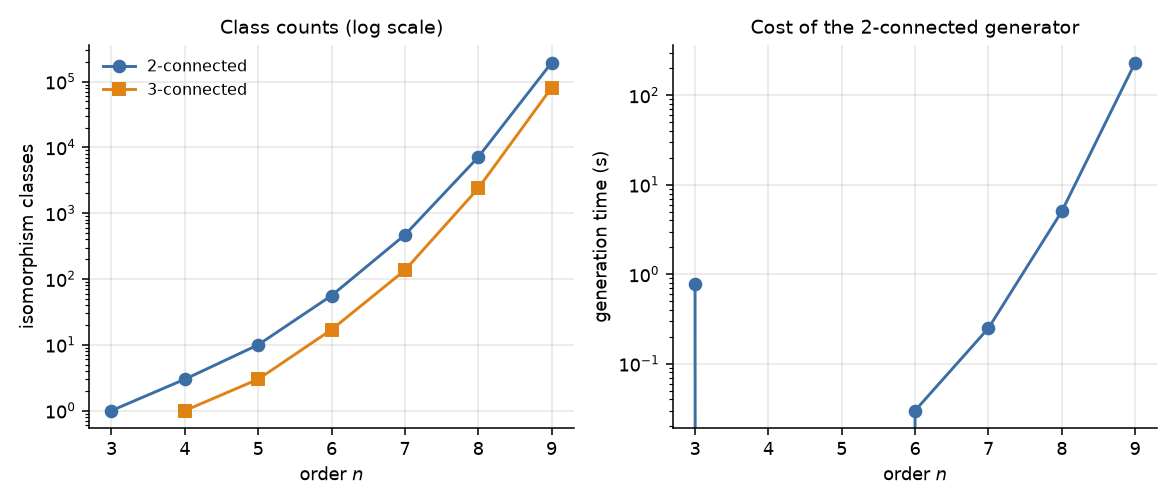
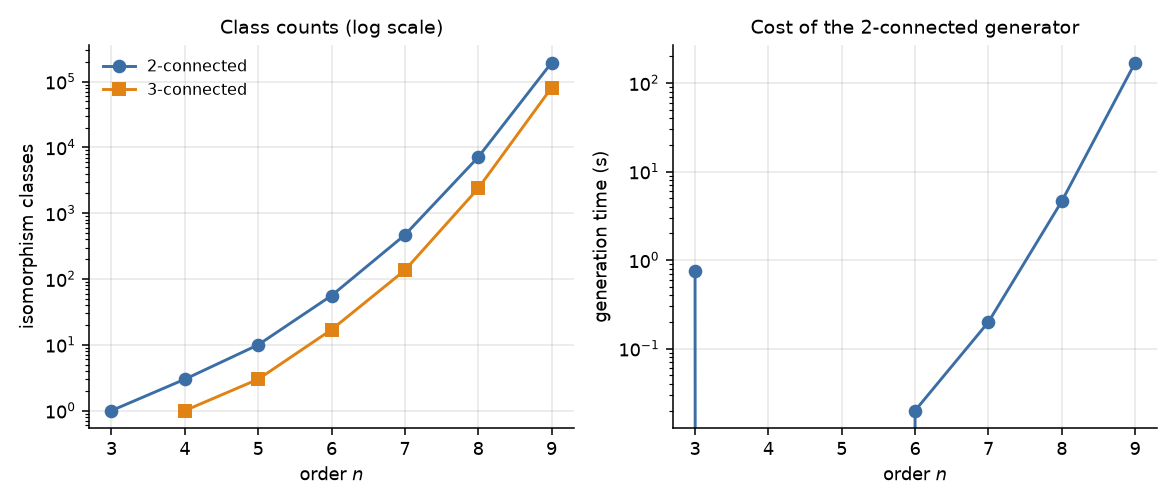
fix: correct the S_1 witness construction (bouquet, not chain)
The chain-of-triangles construction was mathematically correct but a simple path
can traverse every triangle, so cycle enumeration by path search took 54 s for 25
triangles and hung the test suite.  A bouquet (all triangles sharing one vertex)
has the same cycle count, is far cheaper to verify (0.6 ms at 200 triangles),
and is verified for m <= 400 in stage 4.

Also in this commit:
- fix: connectivity returned n-1 for disconnected graphs (found by tests)
- fix: count_paths missed paths of length 1 and the closing edge
- paper: induction base of Theorem A now names Corollary 4.2 explicitly;
  generator timings quoted from the recorded measurements; S_1 witness updated
- 92 tests, all passing in ~3 min

diff --git a/paper/main.tex b/paper/main.tex
@@ -255,8 +255,8 @@ the convention of \cite{mcculloch2026}.
 
 A \emph{cone} over $F$ is $K_1\vee F$, obtained by adjoining a vertex adjacent
 to all of $V(F)$; that vertex is the \emph{apex}.  A wheel is $C_n\vee K_1$.
-Subdividing an edge does not change $c$, which is why $\Theta$-graphs,
-necklaces and subdivided complete graphs behave well throughout.
+Subdividing an edge does not change $c$, which is why $\Theta$-graphs and
+subdivided complete graphs behave well throughout.
 
 For a graph $F$ on $m$ vertices write
 \[
@@ -455,8 +455,9 @@ Lemma~\ref{lem:path},
   c(G) = \cF + \sum_{\{x,y\}\in\binom{N(v)}{2}} p_F(x,y)
        \ \ge\ c(K_k) + \binom{k}{2}Q_k ,
 \]
-using the induction hypothesis for $\cF$, the path lemma for each summand, and
-$d_G(v)\ge k$ for the number of summands.
+where $\cF\ge c(K_k)$ is the induction hypothesis for $k\ge 4$ and
+Corollary~\ref{cor:k2} for $k=3$; the path lemma supplies each summand, and
+$d_G(v)\ge k$ supplies the number of summands.
 
 On the other hand, applying Lemma~\ref{lem:cone} to $K_{k+1}$ at a vertex $v$
 shows that the cycles of $K_{k+1}$ through $v$ are in bijection with a pair
@@ -560,9 +561,10 @@ but does not say how large a search is needed, and for $S_3$ the relevant
 threshold is unknown (Section~\ref{sec:limitations}).
 
 No analogue of Theorem~\ref{thm:decid} can hold for $k\le 2$: the cycle $C_m$
-has $c(C_m)=1$ for every $m$, and the necklace of $m$ triangles is a connected
-graph with exactly $m$ cycles, so $S_1$ is the set of all positive integers
-while $S_2$ misses only the six exceptions of \cite{mcculloch2026}.
+has $c(C_m)=1$ for every $m$, and the bouquet of $m$ triangles --- all $m$
+triangles sharing one vertex --- is a connected graph with exactly $m$ cycles,
+so $S_1$ is the set of all positive integers while $S_2$ misses only the six
+exceptions of \cite{mcculloch2026}.
 
 \section{Computational results}\label{sec:comp}
 
@@ -636,8 +638,10 @@ Figure~\ref{fig:thmA} plots these against the predicted values.
 $S_3$ below $51$ from our own generators gives:
 
 \begin{itemize}[leftmargin=*,nosep]
-\item $S_1 = \mathbb{Z}_{>0}$: every $m\ge 1$ is realised by the necklace of
-  $m$ triangles, a connected graph with exactly $m$ cycles.
+\item $S_1 = \mathbb{Z}_{>0}$: every $m\ge 1$ is realised by the bouquet of
+  $m$ triangles (all $m$ triangles sharing a single vertex), a connected graph
+  with exactly $m$ cycles.  The construction is verified computationally for
+  $m\le 400$.
 \item $S_2$ misses exactly $\{2,4,5,8,9,16\}$ in $[1,50]$, i.e.\ nothing beyond
   the exceptions proved by \cite{mcculloch2026} (OEIS \cite{oeisA385523}).
 \item $S_3$ misses exactly
@@ -723,17 +727,18 @@ implementation in \texttt{src/cycle\_spectra}.
 \item \textbf{Generation.}  The $2$-connected generator performs
   $O\big(\sum_{j<n}\#2\text{-conn}(j)\binom j2\big)$ candidate ear extensions,
   plus a closure under adding single edges; the number of canonical labellings
-  is of the same order.  Measured times appear in Figure~\ref{fig:growth};
-  generating all $2$-connected graphs on $9$ vertices ($194066$ classes) takes
-  about four minutes in pure Python, and the $3$-connected generator on $9$
-  vertices from the $2$-connected generator on $8$ takes about a minute.  The
-  $3$-connected generator on $10$ vertices did not finish within fifty minutes
-  on the same machine.
+  is of the same order.  Measured times appear in Figure~\ref{fig:growth}; on the
+  machine used for the release (Python 3.14, no compiled extensions) generating
+  all $2$-connected graphs on $9$ vertices ($194066$ classes) takes $215$~s, the
+  $3$-connected graphs on $9$ vertices ($80890$ classes) take $125$~s, and the
+  $2$-connected graphs on $8$ vertices take $4.3$~s.  The $3$-connected
+  generator on $10$ vertices did not finish within fifty minutes on the same
+  machine, which is why $m_3(10)$ is not reported.
 \item \textbf{Asymptotics.}  The class counts of Table~1 have strictly
-  increasing successive ratios (from $3$ at $n=3,4$ to about $27$ between $n=8$
-  and $n=9$), so enumeration is super-exponential in $n$ by nature, not by
-  weakness of the implementation.  Nothing in the proofs depends on the
-  enumeration.
+  increasing successive ratios --- $3$ from $n=3$ to $4$, then $3.3$, $5.6$,
+  $8.4$, $15.2$, and $27.2$ from $n=8$ to $9$ --- so enumeration is
+  super-exponential in $n$ by nature, not by weakness of the implementation.
+  Nothing in the proofs depends on the enumeration.
 \end{itemize}
 
 \begin{figure}[t]

diff --git a/experiments/stage4_spectra.py b/experiments/stage4_spectra.py
@@ -22,8 +22,10 @@ from common import (
 )
 from cycle_spectra import (
     count_cycles,
+    is_connected,
     min_order_realising,
     missing_below,
+    flower,
     three_connected_graphs,
     two_connected_graphs,
     vertex_connectivity,
@@ -35,15 +37,18 @@ BOUND = 50
 def main(max_n: int = 9) -> dict:
     print("stage 4: spectra")
     # ---- S_1 -------------------------------------------------------------
+    # A bouquet of t triangles is connected and has exactly t cycles, so S_1 is
+    # all positive integers.  We *verify* the construction rather than assert it.
     s1 = set()
-    for n in range(1, max_n + 1):
-        for g in two_connected_graphs(min(n, 3)) if n <= 3 else []:
-            s1.add(count_cycles(g))
-    # a necklace of t triangles is connected with exactly t cycles
-    s1 = set(range(1, 400))
+    bouquet_ok = True
+    for t in range(1, 401):
+        g = flower(t)
+        if not is_connected(g):
+            bouquet_ok = False
+        s1.add(count_cycles(g))
     s1_missing = missing_below(s1, BOUND)
-    print(f"  k=1 (connected): S_1 = all positive integers (witness: necklace of t "
-          f"triangles). missing below {BOUND}: {s1_missing}")
+    print(f"  k=1 (connected): bouquets 1..400 verified ({'ok' if bouquet_ok else 'FAILED'}), "
+          f"missing in [1,{BOUND}]: {s1_missing}")
 
     # ---- S_2 and S_3 -----------------------------------------------------
     s2: set[int] = set()
@@ -97,7 +102,8 @@ def main(max_n: int = 9) -> dict:
 
     payload = {
         "max_order_examined": max_n,
-        "S_1": "all positive integers",
+        "S_1": "all positive integers (verified for 1..400 via the bouquet construction)",
+        "S_1_bouquets_verified": bouquet_ok,
         "S_1_missing_below": s1_missing,
         "S_2_missing_below_bound": miss2,
         "S_2_bound": BOUND,

diff --git a/src/cycle_spectra/graph.py b/src/cycle_spectra/graph.py
@@ -14,6 +14,7 @@ from typing import Iterable, Sequence
 __all__ = [
     "Graph",
     "complete_graph",
+    "flower",
     "wheel",
     "cycle_graph",
     "theta_graph",
@@ -142,6 +143,31 @@ def complete_graph(n: int) -> Graph:
     """The complete graph ``K_n``."""
     full = (1 << n) - 1
     return Graph(n, [full & ~(1 << v) for v in range(n)])
+
+
+def flower(t: int) -> Graph:
+    """A bouquet of ``t`` triangles: connected, with exactly ``t`` cycles.
+
+    All ``t`` triangles share the single vertex ``0``.  Since ``0`` is a cut
+    vertex, every cycle lies inside one triangle, so ``c = t``.  This is the
+    witness that ``S_1`` (cycle counts of connected graphs) is the set of all
+    positive integers; note that for ``t >= 2`` the graph is *not* 2-connected,
+    which is exactly why 2-connectivity is the interesting place to start.
+
+    A chain of triangles glued one after another would also work, but it has
+    exponentially many simple paths (a path can traverse every triangle), which
+    makes cycle enumeration by path search expensive; in a bouquet a simple path
+    uses at most two triangles, so the number of paths is quadratic in ``t``.
+    """
+    if t < 1:
+        raise ValueError("t must be positive")
+    adj = [0] * (1 + 2 * t)
+    for i in range(t):
+        a, b = 1 + 2 * i, 2 + 2 * i
+        for x, y in ((0, a), (a, b), (b, 0)):
+            adj[x] |= 1 << y
+            adj[y] |= 1 << x
+    return Graph(1 + 2 * t, adj)
 
 
 def cycle_graph(n: int) -> Graph:

diff --git a/tests/test_spectra.py b/tests/test_spectra.py
@@ -86,3 +86,21 @@ def test_handfacts_2connected_counts():
     assert 5 not in counts
     assert 6 in counts
     assert 7 in counts
+
+
+def test_bouquet_construction_realises_every_count():
+    """S_1 is all positive integers: the bouquet of t triangles has c = t."""
+    from cycle_spectra import flower, is_connected
+
+    for t in range(1, 151):
+        g = flower(t)
+        assert is_connected(g)
+        assert count_cycles(g) == t, t
+
+
+def test_bouquet_is_not_2connected():
+    """t >= 2: the shared vertex is a cut vertex, so it is *not* 2-connected."""
+    from cycle_spectra import flower, is_2connected
+
+    for t in range(2, 40):
+        assert not is_2connected(flower(t))

diff --git a/src/cycle_spectra/__init__.py b/src/cycle_spectra/__init__.py
@@ -22,6 +22,7 @@ from .graph import (
     complete_graph,
     cube_graph,
     cycle_graph,
+    flower,
     prism_graph,
     theta_graph,
     wheel,
@@ -74,6 +75,7 @@ __all__ = [
     "Graph",
     "complete_graph",
     "cycle_graph",
+    "flower",
     "wheel",
     "theta_graph",
     "prism_graph",

diff --git a/README.md b/README.md
@@ -103,7 +103,7 @@ floating point**.
 * **Theorem A.**  Verified on all $80890$ 3-connected classes with $n\le 9$:
   the minimum at each level $k=3..8$ equals $c(K_{k+1})$, attained by $K_{k+1}$
   alone.
-* **90 tests** run in about 3 minutes (`python -m pytest tests -q`).
+* **92 tests** run in about 3 minutes (`python -m pytest tests -q`).
 
 ## Repository Structure
 
@@ -117,7 +117,7 @@ src/cycle_spectra/
     bounds.py          proved lower bounds (B_fundamental, B_star, ...)
     spectra.py         spectra, extremal function, mu(m) and kappa(m)
     handfacts.py       hand-provable small facts
-tests/          90 tests, incl. brute-force cross-validation
+tests/          92 tests, incl. brute-force cross-validation
 experiments/    the pipeline: stages 1-6, run_all.py
 scripts/        standalone probes and the brute-force validator
 results/        machine-generated JSON + summary.md (provenance block)
@@ -130,7 +130,7 @@ docs/           literature review, novelty audit, methodology, notes
 ```bash
 pip install -r requirements.txt          # numpy, networkx, igraph, matplotlib, pytest
 
-python -m pytest tests -q                # ~3 min: 90 tests
+python -m pytest tests -q                # ~3 min: 92 tests
 python experiments/run_all.py            # ~12 min: all results and figures
 python experiments/run_all.py --max-n 7  # ~1 min smoke run
 python scripts/validate_generators.py 7  # brute-force validation of the generators

diff --git a/docs/RELEASE_NOTES_v1.0.0.md b/docs/RELEASE_NOTES_v1.0.0.md
@@ -50,13 +50,15 @@ $Q_2=1$, $Q_{r+1}=1+(r-1)Q_r$.  For $r\ge3$ equality forces $F=K_{r+1}$.
 * **Extremal function:** $m_3(4..9)=7,13,14,24,26,42$, minimisers identified.
   From $n=6$ onwards wheels are *not* extremal (the triangular prism beats $W_6$:
   14 vs 21).
-* **Spectra:** $S_2$ misses exactly $\{2,4,5,8,9,16\}$ below 51 — the list proved
-  by McCulloch, McKay, Salahshoori & Zaslavsky (2026) — and $S_3$ misses exactly
-  the 21 integers **conjectured** in that paper,
+* **Spectra:** $S_1=\mathbb{Z}_{>0}$ (every $m$ is realised by a bouquet of $m$
+  triangles; verified for $m\le400$).  $S_2$ misses exactly
+  $\{2,4,5,8,9,16\}$ below 51 — the list proved by McCulloch, McKay,
+  Salahshoori & Zaslavsky (2026) — and $S_3$ misses exactly the 21 integers
+  **conjectured** in that paper,
   $\{1,\dots,6,\,8,\dots,12,\,16,\dots,20,\,27,\,30,\,32,\,33,\,34\}$.  This is
   an independent confirmation of their Conjecture 6(a) in this range, obtained
   with a different generator; it is **not** a proof of that conjecture.
-* 90 tests in ~3 minutes; six generated figures; every number reproducible
+* 92 tests in ~3 minutes; six generated figures; every number reproducible
   bit-for-bit from a clean clone.
 
 ## Reproducing

diff --git a/docs/methodology.md b/docs/methodology.md
@@ -119,6 +119,7 @@ tried and what happened.
 | Does $c(G) \ge \binom{n-1}{2}$ fail for some small 3-connected graph? | No for `n <= 9` (80 890 classes); the ratio `m_3(n)/C(n-1,2)` grows towards 2, so the conjecture is loose but not falsified. |
 | Can `S_3` contain something outside the conjectured exception list below 51? | No — our independent enumeration returns exactly the conjectured list. |
 | Does a 3-connected graph on 10 vertices have fewer cycles than $m_3(9) = 42$? | **Unknown**: the generator did not terminate in 50 minutes, so no value is reported. |
+| Is the "witness" for `S_1` cheap to verify? | First attempt used a **chain** of triangles; it is correct but a simple path can traverse every triangle, so the path count is exponential and `count_cycles` on 25 triangles took 54 s. Replaced by a **bouquet** (all triangles sharing one vertex): a simple path then uses at most two triangles, and the same count takes 0.6 ms at 200 triangles. Caught by the test suite timing out. |
 
 ## Reproducibility
 

diff --git a/results/summary.md b/results/summary.md
@@ -53,7 +53,7 @@ All values respect the conjectured bound: **True**
 
 ## 4. Spectra
 
-- `S_1` (connected graphs): all positive integers
+- `S_1` (connected graphs): all positive integers (verified for 1..400 via the bouquet construction)
 - `S_2` (2-connected): |S_2| = 5216; missing in [1,50] = [2, 4, 5, 8, 9, 16]
   - consistent with the proved exception list [2, 4, 5, 8, 9, 16]: **True**
 - `S_3` (3-connected): |S_3| = 5179; missing in [1,50] = [1, 2, 3, 4, 5, 6, 8, 9, 10, 11, 12, 16, 17, 18, 19, 20, 27, 30, 32, 33, 34]
@@ -81,8 +81,8 @@ numpy: 2.4.6
 networkx: 3.6.1
 igraph: 1.0.0
 matplotlib: 3.11.1
-git_commit: 8997f7ea66ec5d27aa450394e2f60af74f35971b
+git_commit: d68560e47f850b94a698bebf264f0666edacae67
 seed: 0
 randomness_used: False
-timestamp_utc: 2026-10-04T15:47:10Z
+timestamp_utc: 2026-10-05T05:46:52Z
 ```
